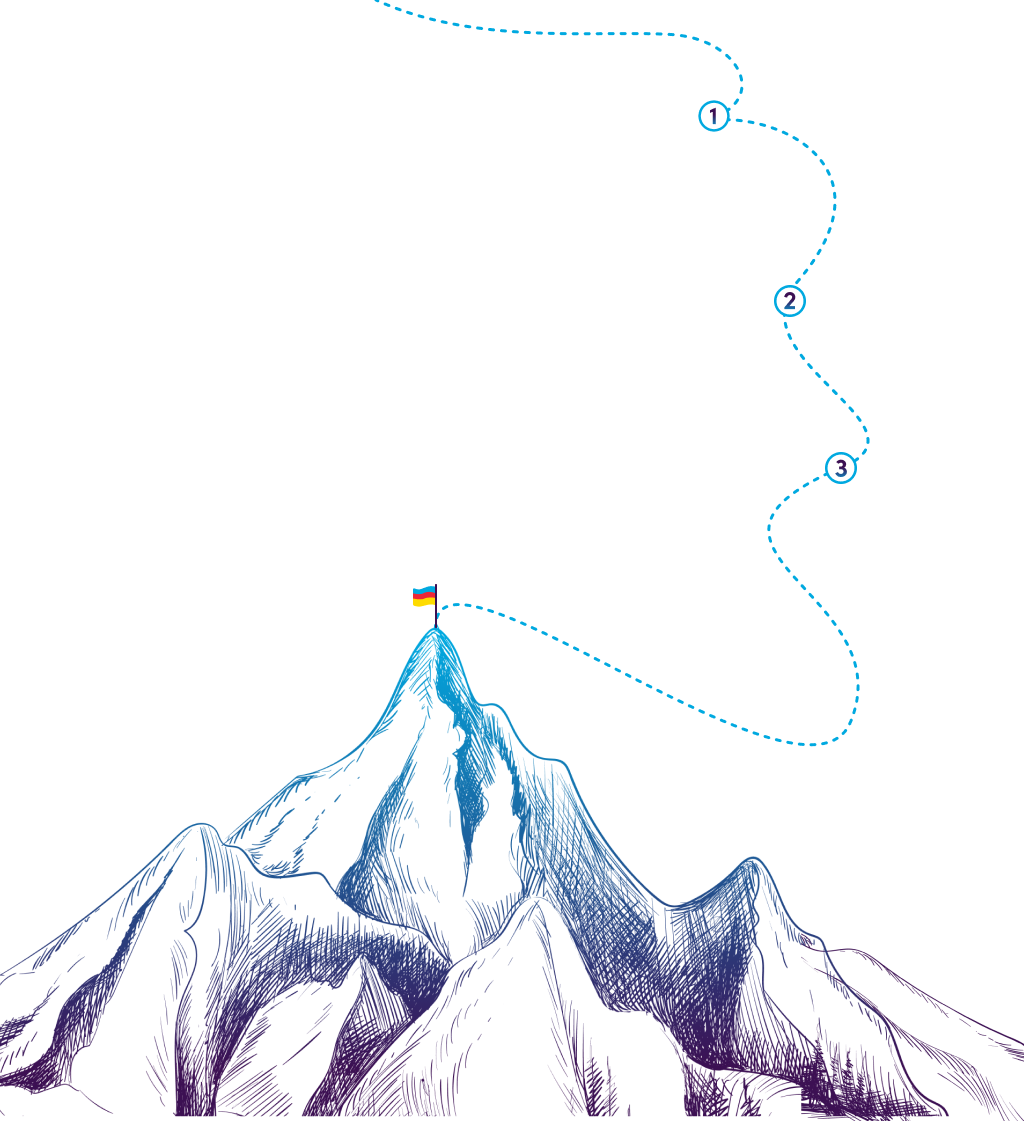
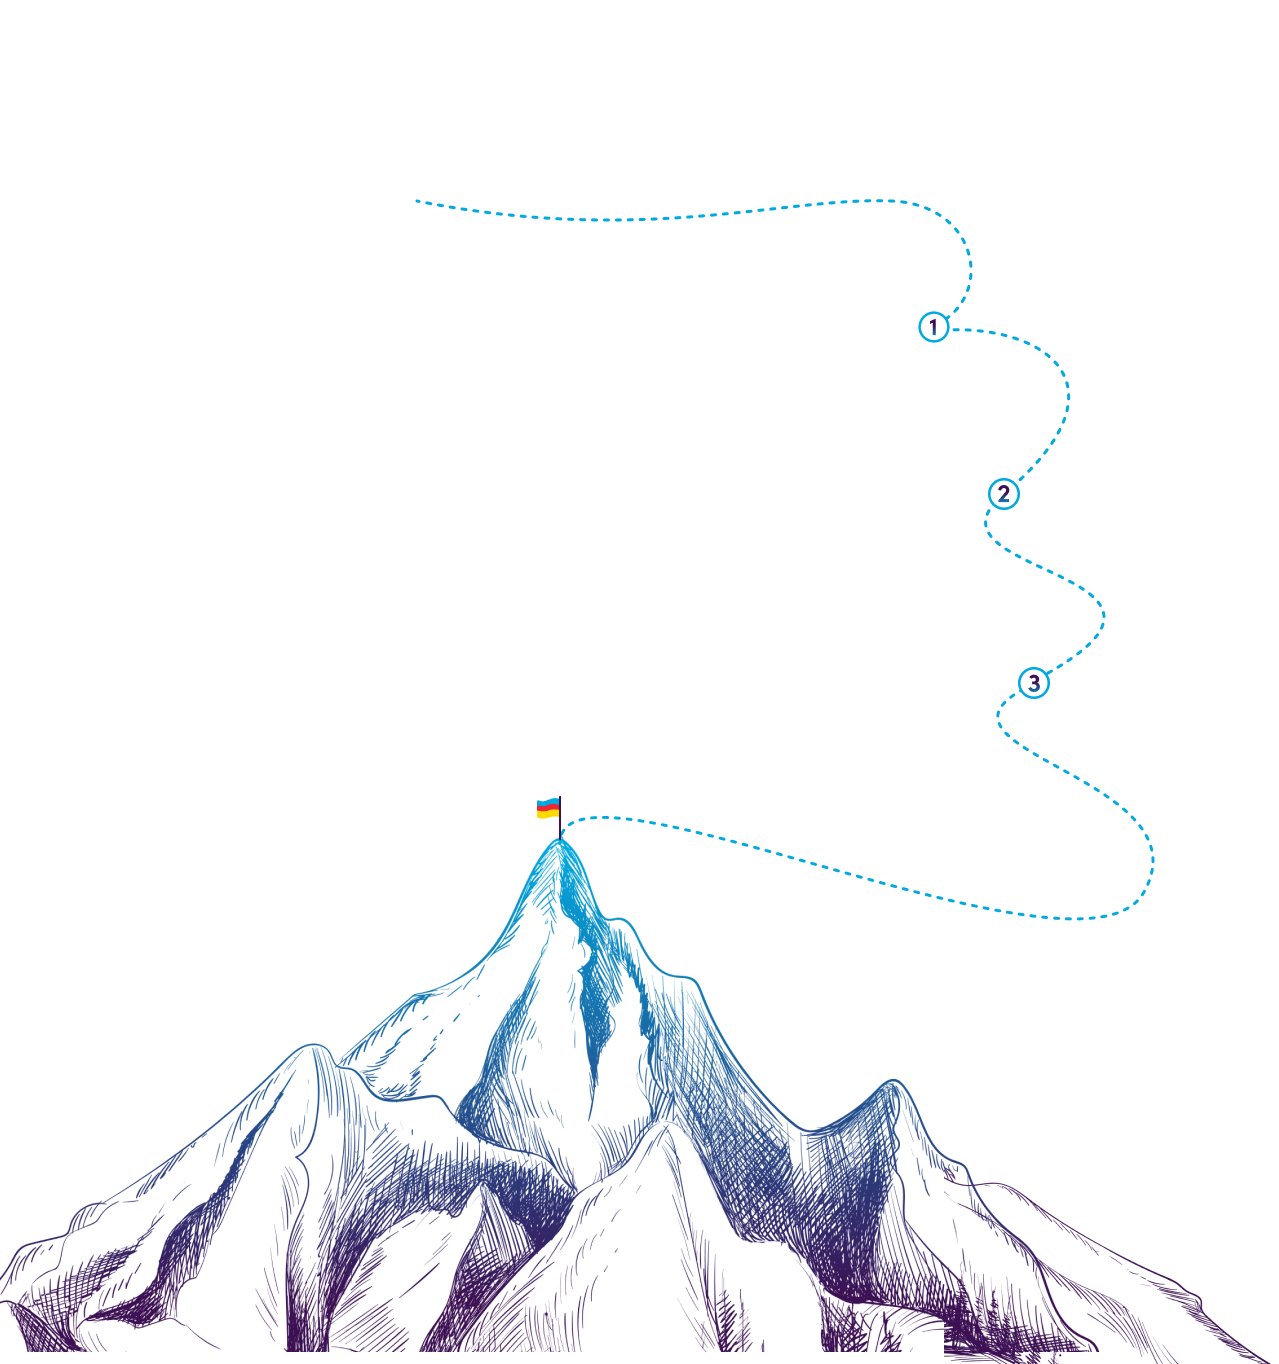
[SW-193] Testing different placement for the image container

diff --git a/src/modules/what-we-do/OurSteps/index.jsx b/src/modules/what-we-do/OurSteps/index.jsx
@@ -12,26 +12,9 @@ const OurSteps = ({ locale }) => {
   const TITLE_BREAKPOINT_WIDTH = 1024;
   const SUBTITLE_BREAKPOINT_WIDTH = 640;
   return (
-    <section className=" pb-[270px] sm:pb-[490px] lg:pb-[610px] xl:pb-[670px]">
-      <div className="pt-[32px] pb-[40px]">
-        {width < TITLE_BREAKPOINT_WIDTH ? (
-          <Title
-            content={t("what_we_do.stepsToTheTop.titleOne")}
-            secondContent={t("what_we_do.stepsToTheTop.titleTwo")}
-            borderPosition="left"
-            size="text-[32px]"
-            height="h-[80px]"
-          />
-        ) : (
-          <Title
-            content={t("what_we_do.stepsToTheTop.fullTitle")}
-            borderPosition="left"
-            size="text-[32px]"
-            height="h-[40px]"
-          />
-        )}
-
-        <div className="pt-[24px]">
+    <section className="relative w-[1279px] h-[1292px]">
+        <div className="w-full bg-what-we-do-steps sm:bg-what-we-do-steps-sm lg:bg-what-we-do-steps-lg xl:bg-what-we-do-steps-xl bg-center bg-no-repeat absolute h-full -top-9 bg-origin-content" style={{ zIndex: -1 }} />
+        <div className="mt-6">
           <p className="font-poppins lg:text-base font-normal text-black">
             {t("what_we_do.stepsToTheTop.descriptionOne")}
           </p>
@@ -42,9 +25,7 @@ const OurSteps = ({ locale }) => {
             {t("what_we_do.stepsToTheTop.descriptionThree")}
           </p>
         </div>
-      </div>
-      <div className="space-y-14 xl:space-y-16">
-        <div className="max-w-[270px] sm:max-w-[420px] lg:w-[665px] xl:w-[834px]">
+        <div className="max-w-[270px] sm:max-w-[420px] lg:max-w-[665px] xl:max-w-[834px] w-full mt-[72px]">
           {width < SUBTITLE_BREAKPOINT_WIDTH ? (
             <Title
               content={t("what_we_do.weExploreTheProyect.titleOne")}
@@ -60,7 +41,7 @@ const OurSteps = ({ locale }) => {
             />
           )}
 
-          <div className="pt-[24px]">
+          <div className="mt-6">
             <p className="font-poppins text-sm lg:text-base font-normal text-black">
               {t("what_we_do.weExploreTheProyect.descriptionOne")}
               <span className="font-poppins text-sm lg:text-base font-bold text-black">
@@ -69,7 +50,7 @@ const OurSteps = ({ locale }) => {
             </p>
           </div>
         </div>
-        <div className="max-w-[270px] sm:max-w-[420px] lg:max-w-[665px] xl:max-w-[834px]">
+        <div className="max-w-[270px] sm:max-w-[420px] lg:max-w-[665px] xl:max-w-[834px] w-full mt-16">
           {width < SUBTITLE_BREAKPOINT_WIDTH ? (
             <Title
               content={t("what_we_do.weDesignYourProduct.titleOne")}
@@ -85,7 +66,7 @@ const OurSteps = ({ locale }) => {
             />
           )}
 
-          <div className="pt-[24px]">
+          <div className="mt-6">
             <p className="font-poppins text-sm lg:text-base font-normal text-black">
               {t("what_we_do.weDesignYourProduct.descriptionOne")}
               <span className="font-poppins text-sm lg:text-base font-bold text-black">
@@ -94,7 +75,7 @@ const OurSteps = ({ locale }) => {
             </p>
           </div>
         </div>
-        <div className="max-w-[280px] sm:max-w-[420px] lg:max-w-[665px] xl:max-w-[834px]">
+        <div className="max-w-[270px] sm:max-w-[420px] lg:max-w-[665px] xl:max-w-[834px] w-full mt-16">
           {width < SUBTITLE_BREAKPOINT_WIDTH ? (
             <Title
               content={t("what_we_do.weDevelopTheSolution.titleOne")}
@@ -119,7 +100,6 @@ const OurSteps = ({ locale }) => {
             </p>
           </div>
         </div>
-      </div>
     </section>
   );
 };

diff --git a/src/modules/what-we-do/Intro/index.jsx b/src/modules/what-we-do/Intro/index.jsx
@@ -2,14 +2,36 @@ import React from "react";
 import PropTypes from "prop-types"; 
 import { LOCALE_SLUGS } from '@/common/utils/constants';
 import { useTranslation } from "@/common/lib/i18n";
+import { useResponsive } from "@/common/hooks/useResponsive";
+import Title from "@/common/components/Title/Gradient";
+
 
 
 const Intro = ({ locale }) => {
   const { t } = useTranslation(locale);
+  const { width } = useResponsive();
+  const TITLE_BREAKPOINT_WIDTH = 1024;
+
 
   return (
     <section className="w-full">
-      <p className="font-poppins text-sm lg:text-base font-normal text-black">
+      {width < TITLE_BREAKPOINT_WIDTH ? (
+          <Title
+            content={t("what_we_do.stepsToTheTop.titleOne")}
+            secondContent={t("what_we_do.stepsToTheTop.titleTwo")}
+            borderPosition="left"
+            size="text-[32px]"
+            height="h-[80px]"
+          />
+        ) : (
+          <Title
+            content={t("what_we_do.stepsToTheTop.fullTitle")}
+            borderPosition="left"
+            size="text-[32px]"
+            height="h-[40px]"
+          />
+        )}
+      <p className="font-poppins text-sm lg:text-base font-normal text-black mt-6">
         <strong>{t("what_we_do.intro.descriptionOne")}</strong>
         {t("what_we_do.intro.descriptionTwo")}
       </p>

diff --git a/src/modules/what-we-do/HowWeDoIt/index.jsx b/src/modules/what-we-do/HowWeDoIt/index.jsx
@@ -10,24 +10,26 @@ const HowDoWeDoIt = ({ locale }) => {
   const { t } = useTranslation(locale);
 
   return (
-    <section className="space-y-7">
+    <section>
       <Title
         content={t("what_we_do.HowDoWeDoIt.titleOne")}
         size="text-[26px] lg:text-[32px]"
         underlineFixed
       />
       <div>
-        <p className="font-poppins text-sm lg:text-base font-normal text-black">
+        <p className="font-poppins text-sm lg:text-base font-normal text-black text-center mt-6">
           {t("what_we_do.HowDoWeDoIt.descriptionOne")}
         </p>
       </div>
+      <div className="mt-12">
       <TechnologiesSlider
         images={repeatImageLogos(technologiesImages, 20)}
         slides={8}
         imgClass="w-24"
         spacingBetweenSlides={SPACE_BETWEEN_CARDS}
-      />
-      <p className="font-poppins text-sm lg:text-base font-normal text-black text-center">
+        />
+      </div>
+      <p className="font-poppins text-sm lg:text-base font-normal text-black text-center mt-8">
         HTML • CSS • SASS • Typescript • JQuery • Angular Js • Angular • ReactJs
         • NextJs • Bootstrap • Material • Foundation • Tailwind • NodeJs • PHP •
         Java • Python • Ruby • C • C++ • C# • GO • ASP.NET • Express • Ember •

diff --git a/src/pages/[locale]/what-we-do/index.jsx b/src/pages/[locale]/what-we-do/index.jsx
@@ -15,8 +15,7 @@ export default function WhatWeDo({ locale }) {
     <>
       <HeadTag metaContent={{title: t("metaTags.whatWeDo.title"), description: t("metaTags.whatWeDo.description"), keywords: t("metaTags.whatWeDo.keywords")}} />
       <TransitionWrapper className="w-full relative h-[fit-content] flex">
-        <div className="w-full bg-what-we-do-steps sm:bg-what-we-do-steps-sm lg:bg-what-we-do-steps-lg xl:bg-what-we-do-steps-xl bg-no-repeat bg-contain bg-center top-[340px] md:top-[300px] bg-origin-content absolute h-[1080px] sm:h-[1030px] lg:h-[1120px] xl:h-[1160px]" />
-        <div className="section-container w-full container mx-auto flex-col">
+        <div className="section-container w-full container mx-auto flex-col relative">
           <Intro locale={locale} />
           <OurSteps locale={locale} />
           <HowDoWeDoIt locale={locale} />

diff --git a/src/common/components/Title/Gradient.jsx b/src/common/components/Title/Gradient.jsx
@@ -17,7 +17,7 @@ const Title = ({
 }) => {
   return borderPosition === "bottom" ? (
     <>
-      <div className={`${underlineFixed ? 'underlined-title-fixed' : 'underlined-title'} ${size} ${color}`}>
+      <div className={`${underlineFixed ? 'underlined-title-fixed' : 'underlined-title'} ${size} ${color} leading-none`}>
         <h2>{content}</h2>
         {
           secondContent && (<h2>{secondContent}</h2>)
